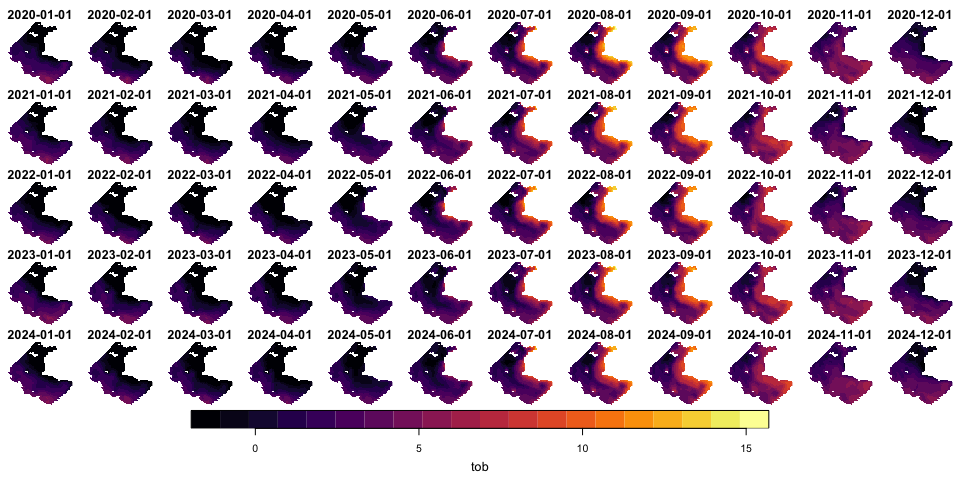
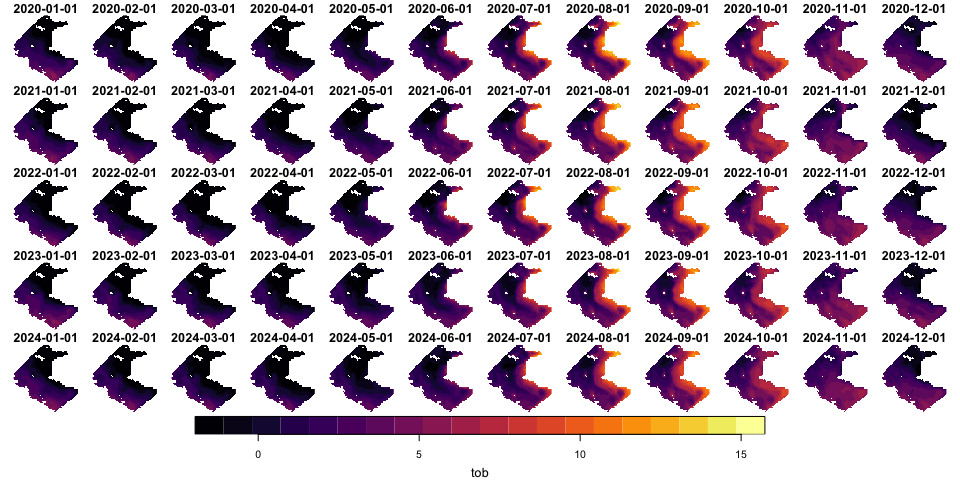
update README

Changed region(s): [[0.0, 0.0, 1.0, 0.9688], [0.4688, 0.9688, 0.5312, 1.0], [0.5625, 0.4375, 0.5938, 0.4688]]

diff --git a/README.md b/README.md
@@ -47,13 +47,13 @@ print(temp_mom6, n = prod(dim(temp_mom6)))
 
     stars object with 3 dimensions and 1 attribute
     attribute(s):
-              Min.   1st Qu.   Median     Mean  3rd Qu.    Max.    NAs
-    tob  -1.960721 0.1090782 2.019937 2.220932 3.832766 15.6925 321300
+              Min.    1st Qu.   Median     Mean 3rd Qu.     Max.    NAs
+    tob  -1.960721 -0.0716224 1.905681 2.137839 3.77049 15.73896 293940
     dimension(s):
-         from  to  offset  delta               refsys                    values x/y
-    x       6 104  -17526  12418 WGS 84 / UTM zone 2N                      NULL [x]
-    y       5 103 7323894 -12418 WGS 84 / UTM zone 2N                      NULL [y]
-    time    1  60      NA     NA                 Date 2020-01-01,...,2024-12-01    
+         from  to offset   delta refsys                    values x/y
+    lon     1  73   -179  0.2884 WGS 84                      NULL [x]
+    lat     1 128  54.48 0.08588 WGS 84                      NULL [y]
+    time    1  60     NA      NA   Date 2020-01-01,...,2024-12-01    
 
 These ouputs can be plotted using `ggplot2::geom_stars` (example using ROMS below) or using the `stars` plotting utility:
 
@@ -77,12 +77,12 @@ temp_mom6 |>
 ```
 
             time        mean
-    1 2020-01-01  0.96913739
-    2 2020-02-01  0.12537628
-    3 2020-03-01 -0.11976230
-    4 2020-04-01  0.01070486
-    5 2020-05-01  0.71363816
-    6 2020-06-01  1.96432718
+    1 2020-01-01  0.83560274
+    2 2020-02-01  0.02597870
+    3 2020-03-01 -0.20904801
+    4 2020-04-01 -0.08455181
+    5 2020-05-01  0.60549278
+    6 2020-06-01  1.87319963
 
 Note:
 
@@ -268,16 +268,6 @@ check_availability(var, type = "projection", scenario = "SSP585", earth_model = 
     2090-2094
     2095-2099
 
-## References
-
-For description of ROMS models, see:
-
-Hermann AJ, Gibson GA, Bond NA, Curchitser EN, Hedstrom K, Cheng W, Wang M, Cokelet ED, Stabeno PJ, Aydin K (2016). “Projected future biophysical states of the Bering Sea.” Deep-Sea Research Part II: Topical Studies in Oceanography, 134, 30–47. ISSN 09670645, doi:10.1016/j.dsr2.2015.11.001, Publisher: Elsevier, http://dx.doi.org/10.1016/j.dsr2.2015.11.001.
-
-Kearney KA, Hermann A, Cheng W, Ortiz I, Aydin K (2020). “A coupled pelagic–benthic–sympagic biogeochemical model for the Bering Sea: documentation and validation of the BESTNPZ model (v2019.08.23) within a high-resolution regional ocean model.” Geoscientific Model Development, 13(2), 597–650. ISSN 1991-9603, doi:10.5194/gmd-13-597-2020, https://gmd.copernicus.org/articles/13/597/2020/.
-
-Pilcher DJ, Naiman DM, Cross JN, Hermann AJ, Siedlecki SA, Gibson GA, Mathis JT (2019). “Modeled Effect of Coastal Biogeochemical Processes, Climate Variability, and Ocean Acidification on Aragonite Saturation State in the Bering Sea.” Frontiers in Marine Science, 5, 508. ISSN 2296-7745, doi:10.3389/fmars.2018.00508, https://www.frontiersin.org/article/10.3389/fmars.2018.00508/full.
-
 ## AFSC GAP survey data
 
 The functions `get_catch`, `get_hauldata`, and `get_species_codes` are wrappers for the GAP API documented [here](https://afsc-gap-products.github.io/gap_products/content/foss-api-r.html). To download, for example, all positive tows for walleye pollock from the EBS (SEBS + NBS) survey, and add in the data for hauls with zero catch, use:
@@ -287,6 +277,16 @@ library("BeringSeaData")
 plk_code <- get_species_codes("Gadus chalcogrammus")
 plk_data <- get_catch(plk_code, zero_expand = TRUE, survey = "EBS")
 ```
+
+## References
+
+For description of ROMS models, see:
+
+Hermann AJ, Gibson GA, Bond NA, Curchitser EN, Hedstrom K, Cheng W, Wang M, Cokelet ED, Stabeno PJ, Aydin K (2016). “Projected future biophysical states of the Bering Sea.” Deep-Sea Research Part II: Topical Studies in Oceanography, 134, 30–47. ISSN 09670645, doi:10.1016/j.dsr2.2015.11.001, Publisher: Elsevier, http://dx.doi.org/10.1016/j.dsr2.2015.11.001.
+
+Kearney KA, Hermann A, Cheng W, Ortiz I, Aydin K (2020). “A coupled pelagic–benthic–sympagic biogeochemical model for the Bering Sea: documentation and validation of the BESTNPZ model (v2019.08.23) within a high-resolution regional ocean model.” Geoscientific Model Development, 13(2), 597–650. ISSN 1991-9603, doi:10.5194/gmd-13-597-2020, https://gmd.copernicus.org/articles/13/597/2020/.
+
+Pilcher DJ, Naiman DM, Cross JN, Hermann AJ, Siedlecki SA, Gibson GA, Mathis JT (2019). “Modeled Effect of Coastal Biogeochemical Processes, Climate Variability, and Ocean Acidification on Aragonite Saturation State in the Bering Sea.” Frontiers in Marine Science, 5, 508. ISSN 2296-7745, doi:10.3389/fmars.2018.00508, https://www.frontiersin.org/article/10.3389/fmars.2018.00508/full.
 
 ## Disclaimer
 
